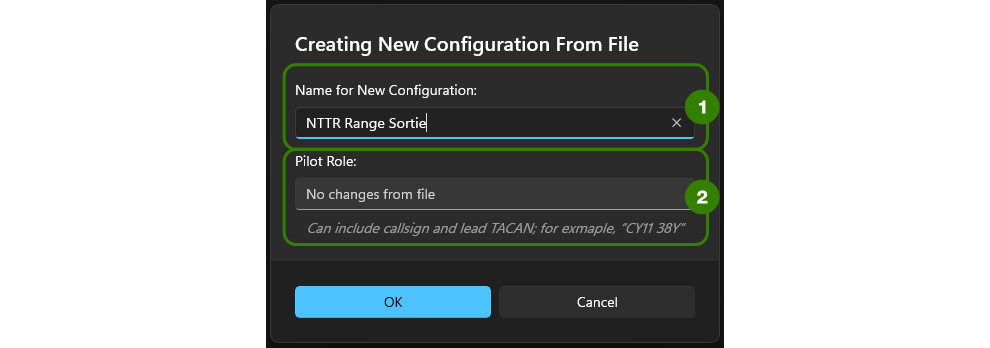
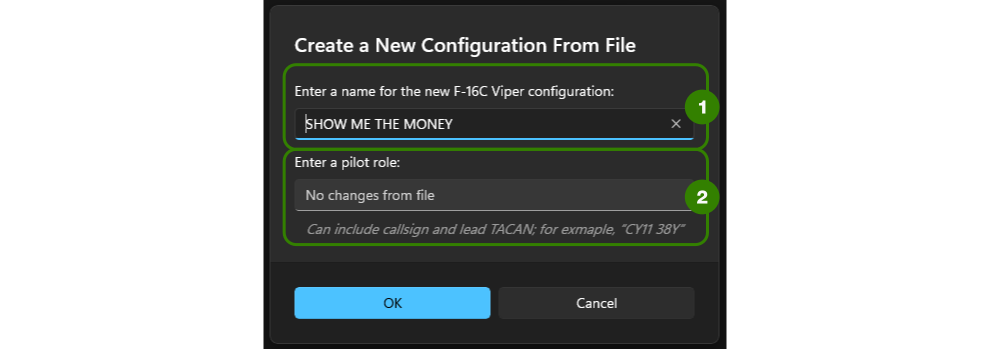
Documentation Updates
More documentation updates for v1.1.0.

diff --git a/doc/Airframe_F16C.md b/doc/Airframe_F16C.md
@@ -1,20 +1,26 @@
 # JAFDTC: Configuring F-16C Viper Airframes
 
-**_Version 1.0.0 of 17-September-24_**
+**_Version 1.1.0 of TODO_**
 
 JAFDTC supports configuration of the following systems in the Viper,
 
-* Countermeasures
-* Datalink
-* Data Cartridge (DTE/DTC)
-* HARM ALIC threat tables
-* HARM HTS manual threat table and sensor threat classes
-* MFD formats across all master modes and initial format selections
-* Miscellaneous DED systems such as TACAN/ILS, ALOW, BNGO, BULL, LASR, and HMCS DED/UFC
-  along with HMCS intensity
-* Radios
-* SMS munitions parameters
-* Steerpoints including OAP, VIP, and VRP reference points
+* [Countermeasures](#countermeasures)
+* [Datalink](#datalink)
+* [Data Cartridge](#data-cartridge-dtcdte)
+  (DTE/DTC)
+* [HARM ALIC](#harm-alic)
+  threat tables
+* [HARM HTS](#harm-hts)
+  manual threat table and sensor threat classes
+* [MFD formats](#mfd-formats)
+  across all master modes and initial format selections
+* [Miscellaneous DED](#miscellaneous)
+  systems such as TACAN/ILS, ALOW, BNGO, BULL, LASR, HMCS DED/UFC, and HMCS intensity
+* [Radios](#communications)
+* [SMS](#sms-munitions)
+  munitions parameters
+* [Steerpoints](#steerpoints)
+  including OAP, VIP, and VRP reference points
 
 Each of these areas is covered in more depth below. See the
 [_User's Guide_](https://github.com/51st-Vfw/JAFDTC/tree/master/doc/README.md) and
@@ -40,7 +46,9 @@ JAFDTC currently supports four functions from the Viper cockpit,
     configuration into the jet. JAFDTC provides feedback during the upload according to the
     **Upload Feedback**
     [setting](https://github.com/51st-Vfw/JAFDTC/tree/master/doc/README.md#settings).
-  * A press longer than 1.0s causes JAFDTC to open up the in-mission DCS DTE interface.
+  * A press longer than 1.0s causes JAFDTC to open up the in-mission DCS DTE interface. Prior
+    to doing so, JAFDTC will generate the merged `.dtc` according to the settings of the
+    [DTC system](#data-cartridge-dtcdte).
 * **FLIR Rocker Switch** &ndash; Pressing the `UP` and `DOWN` sides of the rocker moves to the
   previous and next configurations, respectively. On the first press, JAFDTC briefly displays
   the name of the currently selected configuration. Subsequent presses step up or down through
@@ -54,7 +62,47 @@ Other functions may be implemented later.
 
 # Pilot Roles During Import
 
-TODO mostly "role" discussion
+The Viper supports pilot roles when importing from a `.jafdtc` file. Roles allow JAFDTC to
+customize the imported file based on your role in the flight as
+[discussed earlier](https://github.com/51st-Vfw/JAFDTC/tree/master/doc/Common_Elements.md#importing-configurations-from-similar-airframes). For the Viper, JAFDTC can adjust the
+following parameters from the configuration based on role,
+
+- Ownship callsign in the
+  [Datalink System](#datalink).
+- Ownship flight/element number in the
+  [Datalink System](#datalink).
+- Ownship flight lead status in the
+  [Datalink System](#datalink).
+- TACAN yardstick setup in the
+  [Miscellaneous System](#miscellaneous).
+
+The role is specified by giving the callsign information for the pilot importing the `.jafdtc`
+along with the TACAN for the flight lead. Both of these are optional.
+
+The callsign is specified in the "CCnn" format. For example, *JEDI 2-3* is represented as
+*JI23*, *VENOM1-1* as *VN11*, and so on. TACAN is specified as a channel; for example, 39Y,
+40X, etc. The following table presents some examples,
+
+|Role    |Callsign   |F/E        |Is Lead?   |TACAN Channel|TACAN Mode |
+|:------:|:---------:|:---------:|:---------:|:-----------:|:---------:|
+|CY23 39X| CY        | 23        | No        | 102X        | A/A TR    | 
+|LO31 41X| LO        | 31        | Yes       | 41X         | A/A TR    | 
+|VN11    | VN        | 11        | Yes       | Unchanged   | Unchanged |
+|38Y     | Unchanged | Unchanged | Unchanged | 38Y or 101Y | A/A TR    |
+
+Here, "unchanged" implies the value in the `.jafdtc` file is not changed during import. At
+import, JAFDTC attempts to determine the flight/element number of the pilot with the
+following procedure,
+
+- Callsign from the role string provied during import.
+- If there is no callsign in the role, infer the flight/element number by looking for the
+  pilot matching the pilot name from the
+  [JAFDTC Settings](ttps://github.com/51st-Vfw/JAFDTC/tree/master/doc/README.md#settings)
+  in the datalink team table from the configuration.
+- If unable to infer from datalink team, use the value from the configuration.
+
+Once the element number is known, the lead and TACAN setup can be determined with the
+assumption that lead will setup a yardstick will all members of the flight.
 
 # Configurable Systems on the Viper
 
@@ -69,27 +117,59 @@ powered up, stores loaded, and so on.
 ## Communications
 
 The communications configuration allow you to update the presets and initial configuration of
-the COM1/COM1 radios in the Viper. This configuration includes the presets as well as the
-initial radio frequency and guard monitor.
-This editor extends the interface of the common communication system editor the
+the COM1 (UHF) and COM2 (VHF) radios in the Viper. This configuration includes the presets as
+well as the initial radio frequency and whether or not to setup to monitor guard. This editor
+extends the interface of the common communication system editor the
 [_User's Guide_](https://github.com/51st-Vfw/JAFDTC/tree/master/doc/README.md#communications-system-editors)
 describes.
 
-**TODO REBUILD**
-![](images/Viper_Sys_COMM.png)
+![](images/viper_comm_ui.png)
 
-The Viper editor includes additional controls btween the preset list and common editor controls.
-Below the preset list is a field to set the initial frequency or preset to select after
-uploading the configuration to the jet. The background of this field will turn red if the
-value is invalid.
+Working from top to bottom, the primary components of this page include,
 
-> Note that unless there is an initial frequency or preset specified, JAFDTC will not change
-> the frequency tuned on a radio from the default frequency.
+1. [**_Radio Selection_**](#radio-selection-and-preset-list)
+   &ndash; Selects the radio being edited and adds presets to the preset list.
+2. [**_Preset List_**](#radio-selection-and-preset-list)
+   &ndash; Lists currently defined presets.
+3. [**_Radio Details_**](#radio-details)
+   &ndash; Sets some per-radio settings.
+4. **_Common Editor Controls_**
+   &ndash; Common controls for system editors as described earlier in the
+   [_User's Guide_](https://github.com/51st-Vfw/JAFDTC/tree/master/doc/README.md#common-editor-controls).
 
-Also, the COM1 (UHF) radio can be set to monitor guard through the "monitor guard" checkbox on
-the right under the preset list.
+The reaminder of this section discusses these elements in more detail.
 
-TODO: integration with dcs dtc
+### Radio Selection and Preset List
+
+The main portion of the radio interface in areas (1) and (2) functions as described earlier
+in the
+[_User's Guide_](https://github.com/51st-Vfw/JAFDTC/tree/master/doc/README.md#common-editor-controls).
+The Viper supports up to 20 presets on each of its two radios.
+
+### Radio Details
+
+The Viper editor includes additional controls beyond those in the common 
+[radio interface](https://github.com/51st-Vfw/JAFDTC/tree/master/doc/README.md#communications-system-editors)
+located in area (3) between the preset list and common editor controls. For both COM1 and
+COM2, these controls include a text box to set the initial frequency or preset to select
+after uploading the configuration to the jet. The background of this field will turn red if
+the value is invalid.
+
+> Unless there is an initial frequency or preset specified, JAFDTC will not change the
+> frequency tuned on a radio from the default frequency.
+
+In addition, for the COM1 (UHF) radio, the controls provide an option to configure the radio
+to monitor the UHF guard frequency (243.000 MHz).
+
+### Integration with DCS DTC
+
+The presets configured in this editor can be merged with the merged DTC tape as described
+in the
+[_Common Elements Guide_](https://github.com/51st-Vfw/JAFDTC/tree/master/doc/Common_Elements.md#working-with-the-native-dcs-dtc).
+For the Viper, any COM1 or COM2 presets defined in the JAFDTC UI are copied into the merged
+tape when the system is set to be merged. Regardless of the DTC settings, JAFDTC will contine
+to set up the initial frequency/preset and guard monitoring as these parameters are not
+configured by the DCS DTC.
 
 ## Countermeasures
 
@@ -97,29 +177,37 @@ The countermeasures system manages parameters set through the CMDS DED page. The
 control the operation of the countermeasures and allow you to setup different programs for the
 chaff and flare dispensers.
 
-TODO integration with dcs dtc
+![](images/viper_cmds_ui.png)
 
-**TODO REBUILD**
-![](images/Viper_Sys_CMDS.png)
+Working from top to bottom, the primary components of this page include,
 
-The top row of the editor adjusts overall parameters of the countermeasures system while the
-bottom portion allows you to edit specific countermeasure programs in the countermeasure
-system.  The common controls implement the link and reset functionality described
-[earlier](https://github.com/51st-Vfw/JAFDTC/tree/master/doc/README.md#common-editor-controls).
+1. [**_System Parameters_**](#countermeasure-system-parameters)
+   &ndash; Sets system-wide parameters.
+2. [**_Countermeasure Program Editor_**](#countermeasure-program-editor)
+   &ndash; TODO.
+3. [**_Countermeasure Programe Visualizer_**](#countermeasure-program-visualizer)
+   &ndash; TODO.
+4. **_Common Editor Controls_**
+   &ndash; Common controls for system editors as described earlier in the
+   [_User's Guide_](https://github.com/51st-Vfw/JAFDTC/tree/master/doc/README.md#common-editor-controls).
+
+The reaminder of this section discusses these elements in more detail.
 
 ### Countermeasure System Parameters
 
-The system parameters include the BINGO levels for chaff and flares. These values determine
-the number of consumables (flares or chaff) that trigger a BINGO warning from the avionics.
+The system parameters include the BINGO levels for chaff and flares and are set in area (1).
+These values determine the number of consumables (flares or chaff) that trigger a BINGO
+warning from the avionics.
 
-### Countermeasure Programs
+### Countermeasure Program Editor
 
 The Viper supports six countermeasure programs: MAN1, MAN2, MAN3, MAN4, PANIC, and BYPASS. Each
 program has settings for the sequencing of dispnesing flares and chaff when running the
-program. The program selection menu selects which of the programs is being edited in the chaff
-and flare columns below. A blue dot next to the program name in the program selection menu
-indicates the program has been changed from default values. The upward- and downward-pointing
-chevrons to the right of the progam selection menu step through the available programs.
+program. The program selection menu at the top of area (2) selects which of the programs is
+being edited in the chaff and flare columns below. A blue dot next to the program name in the
+program selection menu indicates the program has been changed from default values. The upward-
+and downward-pointing chevrons to the right of the progam selection menu step through the
+available programs.
 
 In the chaff and flare columns, you can edit the burst quantity (BQ), burst interval (BI),
 salvo quantity (SQ), and salvo interval (SI) parameters for the program selected in the
@@ -132,6 +220,10 @@ four of the parameters (BQ, BI, SQ, and SI) in the column to their default value
 Below the programming table is a graphical representation of the countermeasure programs. This
 shows the timing of the flare and chaff releases on a common timeline. Gold circles represent
 flares while teal diamonds represent chaff.
+
+### Integration with DCS DTC
+
+TODO integration with dcs dtc
 
 ## Datalink
 
@@ -154,7 +246,7 @@ will share HTS information.
 
 The datalink system editor page looks like this (from Raven's perspective),
 
-![](images/Viper_Sys_DLNK_Top.png)
+![](images/viper_dlnk_ui.png)
 
 The top-most section of the page allows you to select the table entry for your ownship, your
 callsign, and whether or not you are a flight lead. The default callsign of dashes indicates

diff --git a/doc/README.md b/doc/README.md
@@ -389,26 +389,21 @@ you can perform on the clicked configuration.
 
 ### Status Area
 
-The status area occupies the bottom part of the configuration list page. On the right side of
-this region is information showing the current status of DCS. There are three pieces of
-status here, each marked with a red cross or green checkmark,
+The status area occupies the bottom part of the configuration list page in area (5). On the
+right side of this region is the *DCS Status* area showing information on the current status
+of DCS. There are three pieces of status here, each marked with either a red cross or green
+checkmark,
 
 - **Lua Installed** &ndash; Indicates that the Lua support is properly installed in DCS.
 - **Running** &ndash; Indicates that DCS is currently running (though not necessarily running
   a mission).
-- **Pilot in Pit** &ndash; Indicates that DCS is currently running a mission along with the
-  type of airframe currently in use.
+- **Pilot in Pit** &ndash; Indicates that DCS is currently running a mission with a pilot in
+  pit along with the type of airframe that is currently in use.
 
-For example,
+To upload a configuration, all three status items must be marked with a green chekmark.
 
-**TODO REBUILD**
-![](images/Core_Cfg_DCS_Status.png)
-
-shows two different status areas. On the left, DCS is not running but the Lua support is
-installed. On the right, DCS is running a mission where the player is piloting an F-16C
-Viper.
-
-The left side of the status area identifies the pilot and wing as specified through the
+The left side of the status area is the *Pilot Information* area that identifies the pilot
+and wing as specified through the
 [JAFDTC Settings](#settings).
 
 ## System Editor Page
@@ -423,17 +418,19 @@ which you edit a system configuration is similar.
 Working from top to bottom, the primary components of this page include,
 
 1. [**_Configuration Information_**](#system-editor-header)
-   &ndash; TODO.
+   &ndash; Provides the name of the current configuration and a control to reutnrn to the
+   [_Configuration List Page_](#configuration-list-page).
 2. [**_Airframe Information_**](#system-editor-header)
-   &ndash; TODO.
+   &ndash; Provides the name of the current airframe and a control to export the current
+   configuration as a `.jafdtc` fie.
 3. [**_System List_**](#system-list)
-   &ndash; TODO.
+   &ndash; Lists the systems that the configuration can set up.
 4. [**_System Editor_**](#system-editor)
-   &ndash; TODO.
+   &ndash; Provides the interface to edit the system selected in the system list.
 5. [**_Other Controls_**](#other-editor-controls)
-   &ndash; TODO.
+   &ndash; Airframe-specific controls to manage other aspects of the configuration.
 6. [**_Common Editor Controls_**](#common-editor-controls)
-   &ndash; TODO.
+   &ndash; Common controls that are often part of system editors.
 
 The reaminder of this section discusses each of these elements in more detail.
 
@@ -737,7 +734,7 @@ The other fields in the dialog together specify the filter,
 - **Tags** &ndash; Limits the points of interest to those that contain the specified tags. For
   eaxmple, setting this field to `foo; bar` matches any point of interest with tags that
   include `foo` and `bar` (comparisons are case-insensitive).
-- **Shows...** &ndash; Shows only DCS, User, or Campaign points of interest as selected.
+- **Shows...** &ndash; Shows DCS, User, or Campaign points of interest as selected.
 
 For example, setting **Theater** to "Nevada", **Campaign** to "Dark Materials", **Tags** to
 "Base; Target", and selecting only **Shows Campaign...** would limit the POIs listed to

diff --git a/doc/Common_Elements.md b/doc/Common_Elements.md
@@ -24,32 +24,26 @@ configuration for a specific pilot in an element.
 You can import a `.jafdtc` file either through an import control in the user interface (such
 as the **Import** button on the
 [configuration list page](https://github.com/51st-Vfw/JAFDTC/tree/master/doc/README.md#configuration-list-page))
-or by simply double-clicking a `.jafdtc` file from Widnows File Explorer.
-
-## Importing Configurations from Similar Airframes
-
-If the current airframe in the
-[configuration list page](https://github.com/51st-Vfw/JAFDTC/tree/master/doc/README.md#configuration-list-page)
-matches the airframe in the configuration being imported, JAFDTC displays the following dialog,
+or by simply double-clicking a `.jafdtc` file from Widnows File Explorer. After doing so,
+JAFDTC displays the following dialog,
 
 ![](images/common_import_dialog.png)
 
-There are two fields in this dialog. The top field, (1), allows you to specify a name for the
-imported configuration. The bottom field, (2), is optional and specifies the pilot role to apply
-during import.
+There are two fields in this dialog. The top field, (1), selects the name for the imported
+configuration. The bottom field, (2), specifies the pilot role to apply during import and is
+optional.
 
-> The *Pilot Role* field is only present if the airframe supports pilot roles during import.
-> Pilot roles, and how they modify an imported configuration, are airframe-specific and
+Roles allow JAFDTC to customize the configration in the `.jafdtc` file prior to import. This
+allows you to distribute a single `.jafdtc` file to all members of the flight and have JAFDTC
+update it as appropriate for each pilot's position in the flight. This is airframe-dependent.
+
+> The *Pilot Role* field is only present for airframes that support roles no import. As a
+> result, roles, and how they modify an imported configuration, are airframe-specific and
 > discussed further in the relevant
-> [airframe guides](https://github.com/51st-Vfw/JAFDTC/tree/master/doc/README.md#what-now).
+> [airframe guide](https://github.com/51st-Vfw/JAFDTC/tree/master/doc/README.md#what-now).
 
 After filling in the fields, pressing **OK** will build a new configuration in your
 configuration library using the imported `.jafdtc` file.
-
-## Importing Configurations from Dissimilar Airframes
-
-JAFDTC does not currently support importing from dissimilar airframes. This support is planned
-for a future release, however.
 
 # Common Interface Tasks
 

diff --git a/doc/Airframe_F14AB.md b/doc/Airframe_F14AB.md
@@ -6,7 +6,7 @@
 
 JAFDTC supports configuration of the following systems in the F-14A/B Tomcat,
 
-* Waypoints
+* [Waypoints](#waypoints)
 
 Each of these areas is covered in more depth below. See the
 [_User's Guide_](https://github.com/51st-Vfw/JAFDTC/tree/master/doc/README.md) and

diff --git a/doc/Airframe_AV8B.md b/doc/Airframe_AV8B.md
@@ -7,7 +7,7 @@
 
 JAFDTC supports configuration of the following systems in the AV-8B Harrier,
 
-* Waypoints
+* [Waypoints](#waypoints)
 
 Each of these areas is covered in more depth below. See the
 [_User's Guide_](https://github.com/51st-Vfw/JAFDTC/tree/master/doc/README.md) and

diff --git a/doc/Airframe_M2000C.md b/doc/Airframe_M2000C.md
@@ -7,7 +7,7 @@
 
 JAFDTC supports configuration of the following systems in the Mirage,
 
-* Waypoints
+* [Waypoints](#waypoints)
 
 Each of these areas is covered in more depth below. See the
 [_User's Guide_](https://github.com/51st-Vfw/JAFDTC/tree/master/doc/README.md) and
